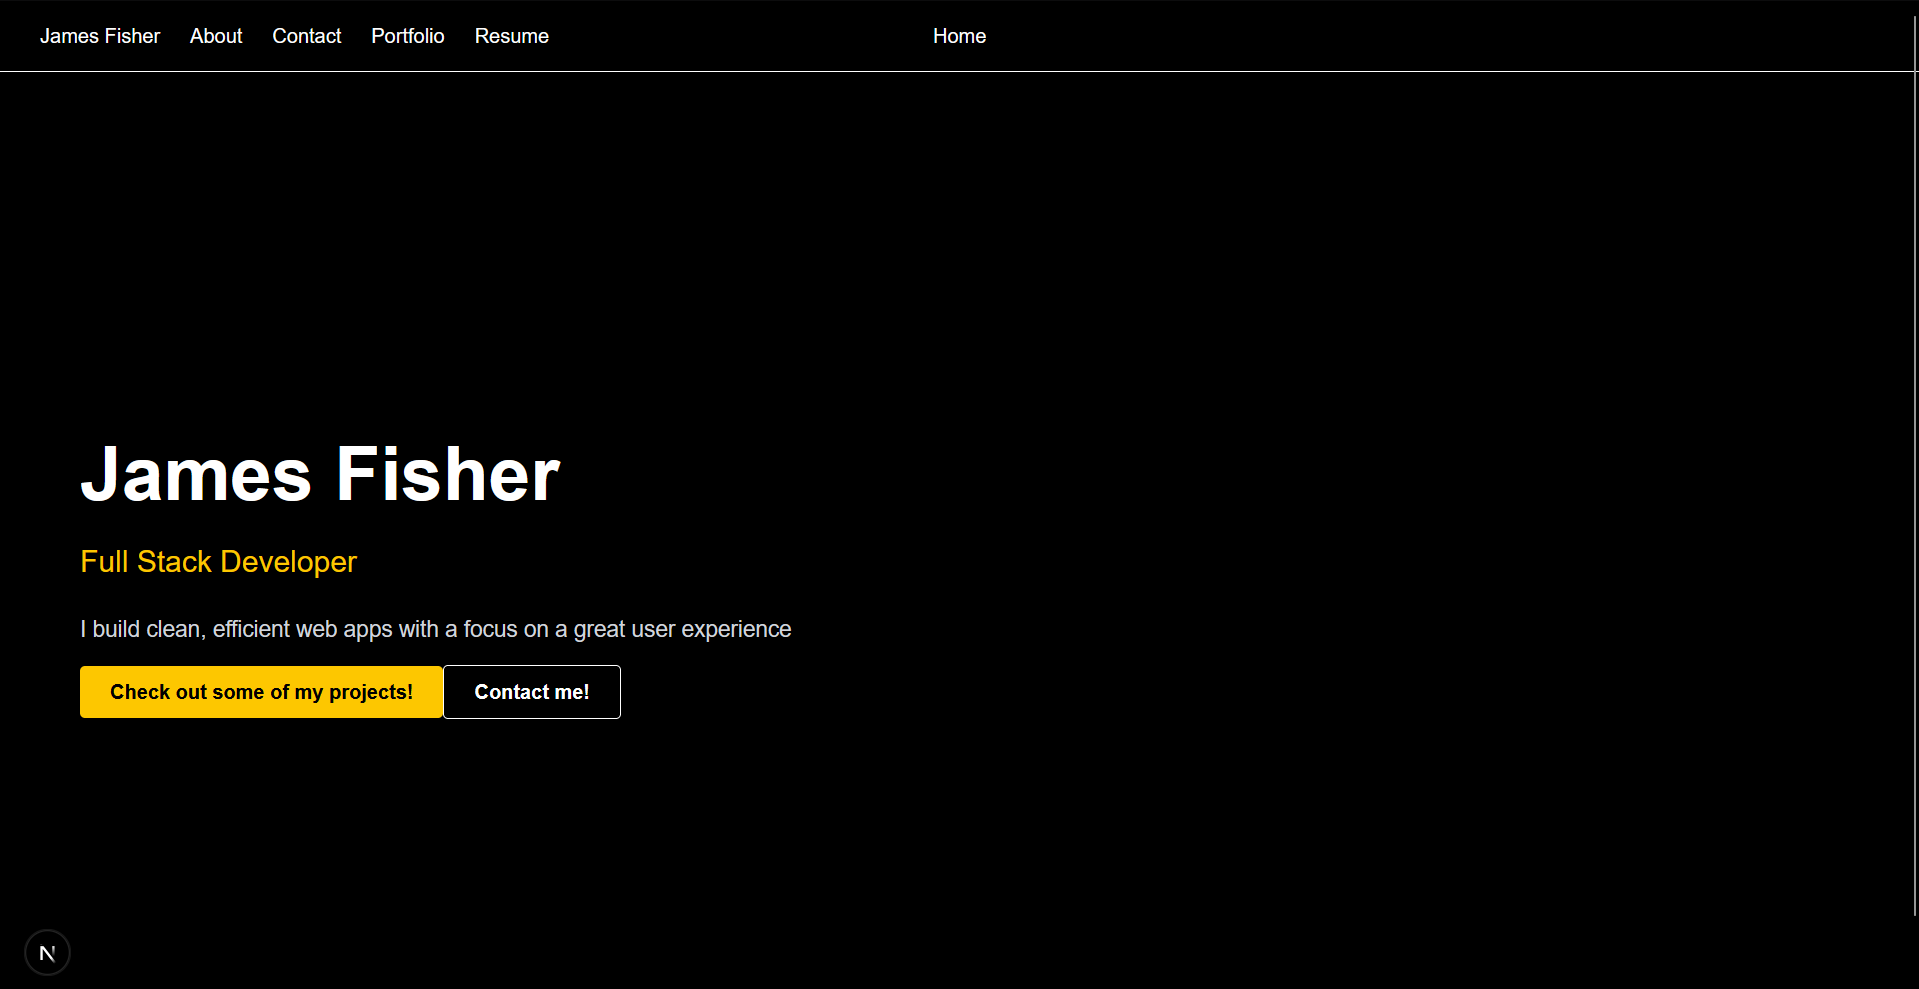
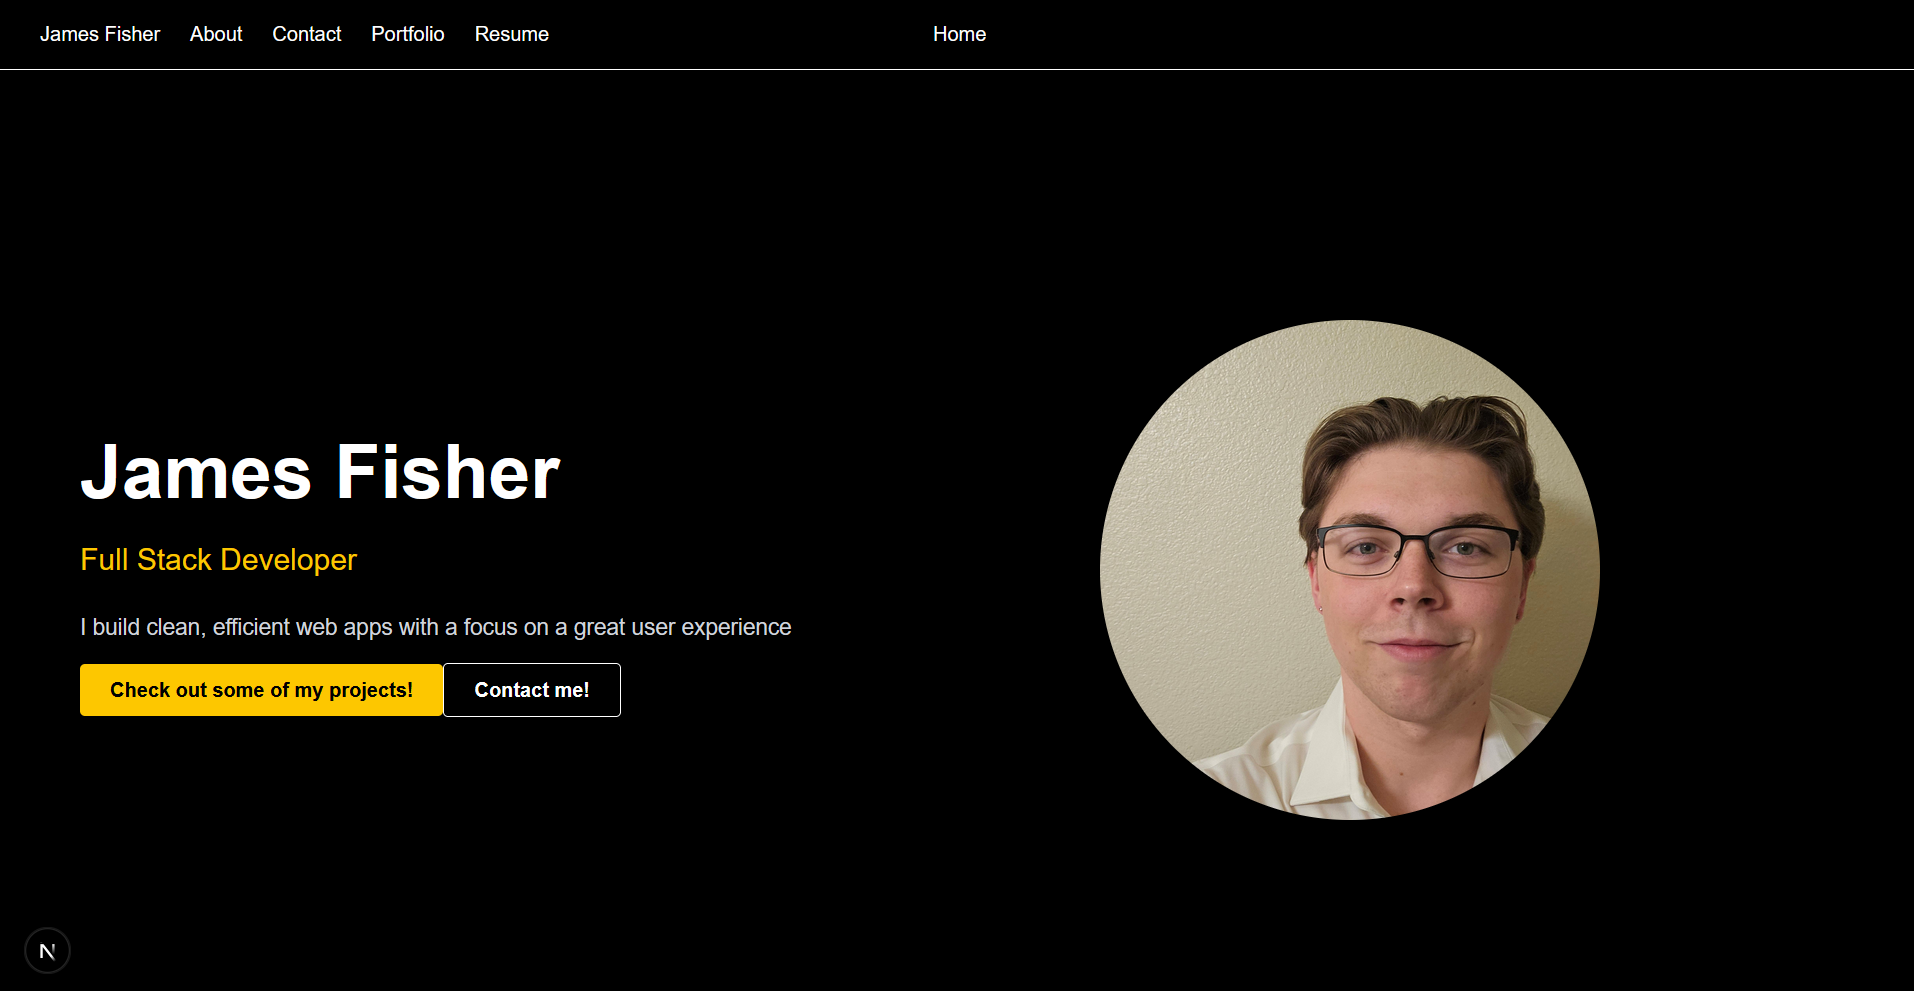
feat: added profile picture to home page

diff --git a/src/app/dev/page.js b/src/app/dev/page.js
@@ -1,6 +1,6 @@
 export default function DevHome() {
   return (
-    <main className="min-h-screen bg-black flex items-center px-16">
+    <main className="min-h-screen bg-black flex items-center px-16 justify-between">
       <section className="flex flex-col gap-6">
         <h1 className="text-6xl font-bold text-white">James Fisher</h1>
         <h2 className="text-2xl text-yellow-400">Full Stack Developer</h2>
@@ -9,6 +9,9 @@ export default function DevHome() {
         <a href="/dev/portfolio" className="bg-yellow-400 text-black px-6 py-3 rounded font-semibold hover:bg-yellow-300 transition-colors">Check out some of my projects!</a>
         <a href="/dev/contact" className="border border-white text-white px-6 py-3 rounded font-semibold hover:bg-white hover:text-black transition-colors">Contact me!</a>
         </div>
+      </section>
+      <section className="pr-48">
+        <img src="/Headshot.jpg" alt="James Fisher Headshot" className="w-100 h-100 rounded-full object-cover"/>
       </section>
     </main>
   )

diff --git a/src/app/dev/portfolio/page.js b/src/app/dev/portfolio/page.js
@@ -46,7 +46,7 @@ export default function Home() {
 ]
   return (
     <main className="min-h-screen flex items-center justify-center bg-black text-white">
-      <div className="grid grid-cols-2 gap-6 pl-10 pr-10 max-w-4xl mx-auto">
+      <div className="grid grid-cols-1 md:grid-cols-2 gap-6 max-w-4xl mx-auto px-8">
       {projects.map((project) => (
         <ProjectCard key={project.title} project={project} />
       ))}

diff --git a/src/app/layout.js b/src/app/layout.js
@@ -1,3 +1,7 @@
+export const metadata = {
+  title: "James Fisher | Fullstack Software Engineer",
+  description: "Portfolio site for James Fisher, a fullstack software engineer specializing in React, Next.js, and Spring Boot.",
+}
 export default function RootLayout({children}) {
   return (
     <html lang="en">
